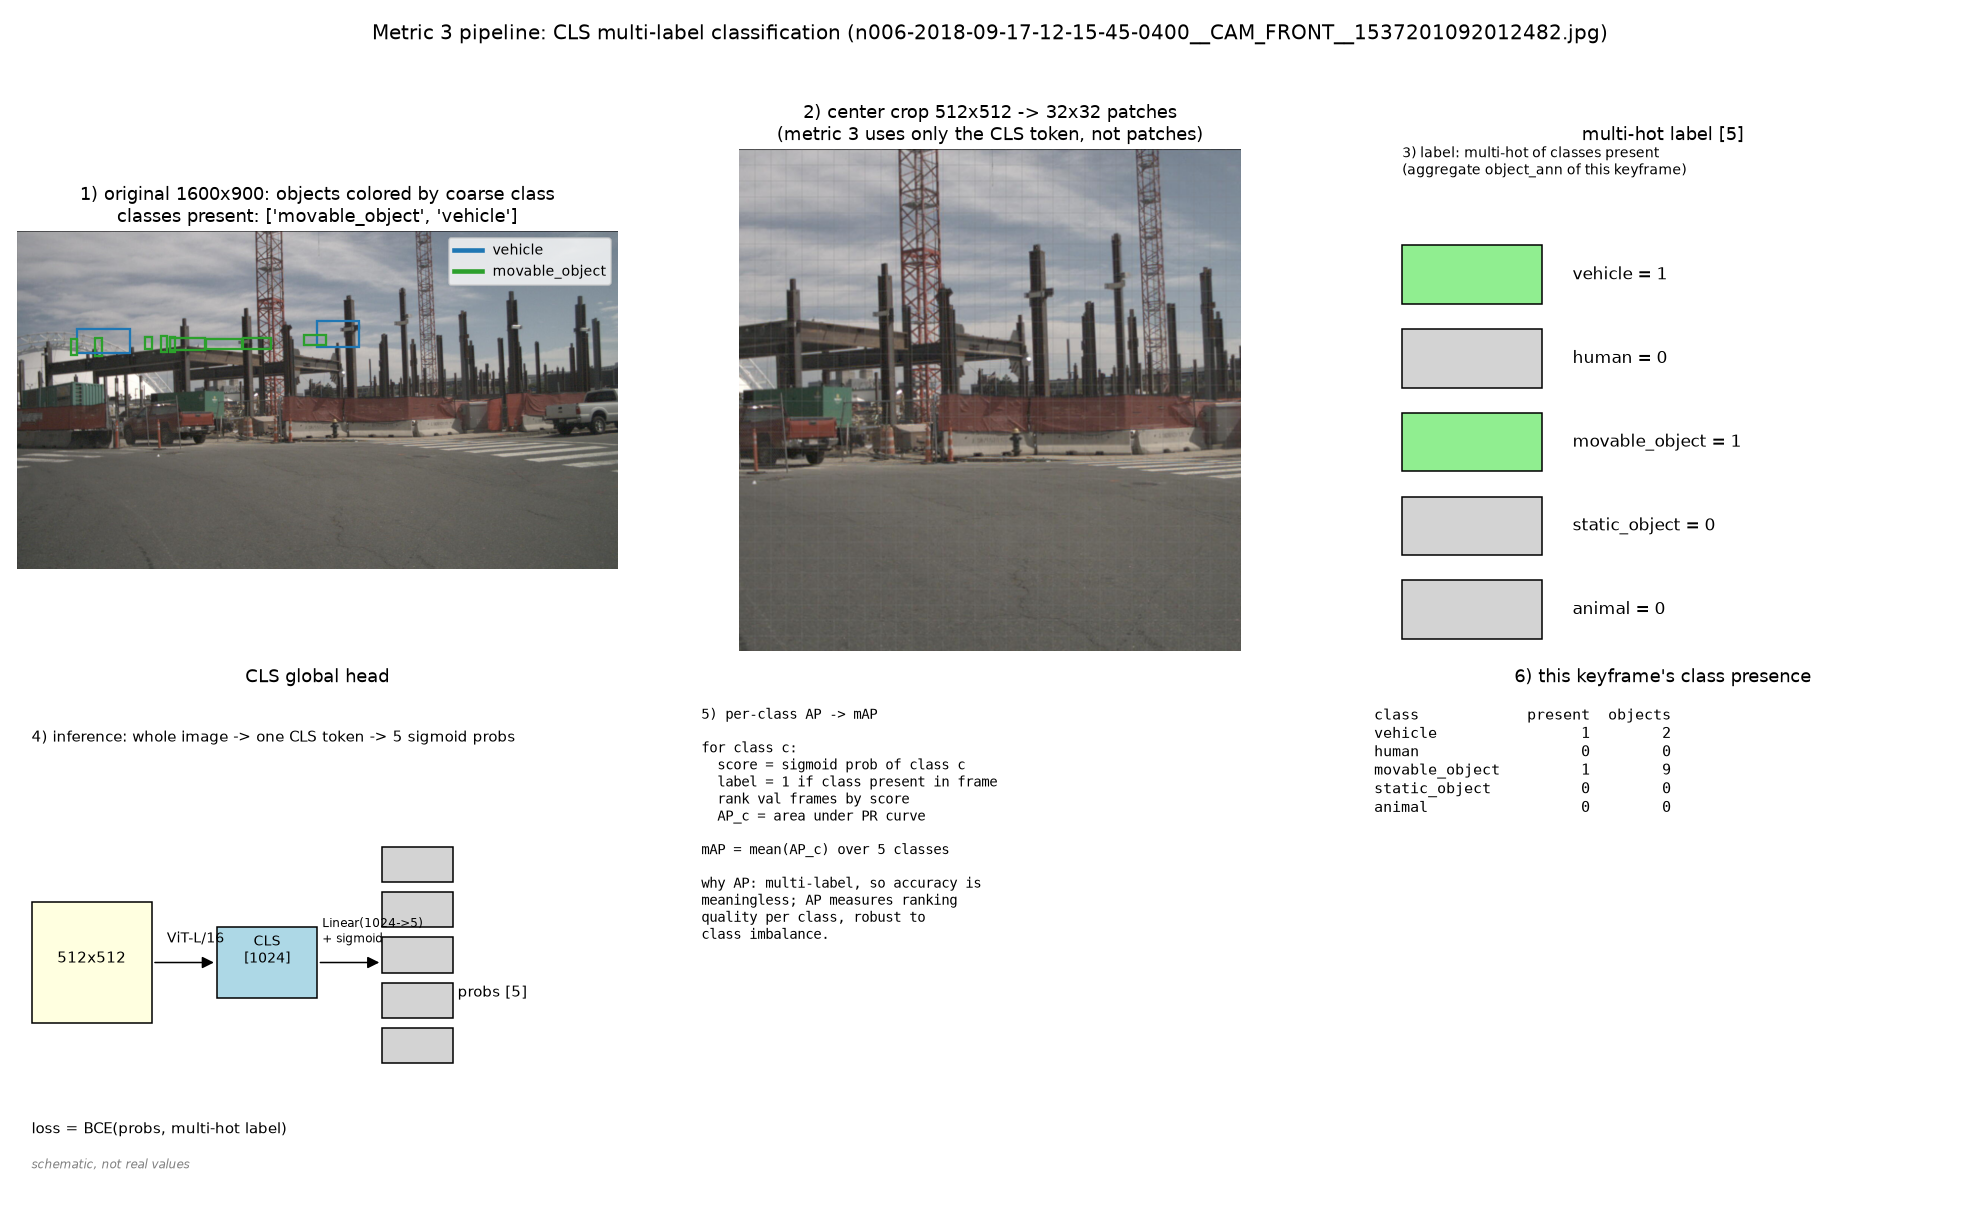
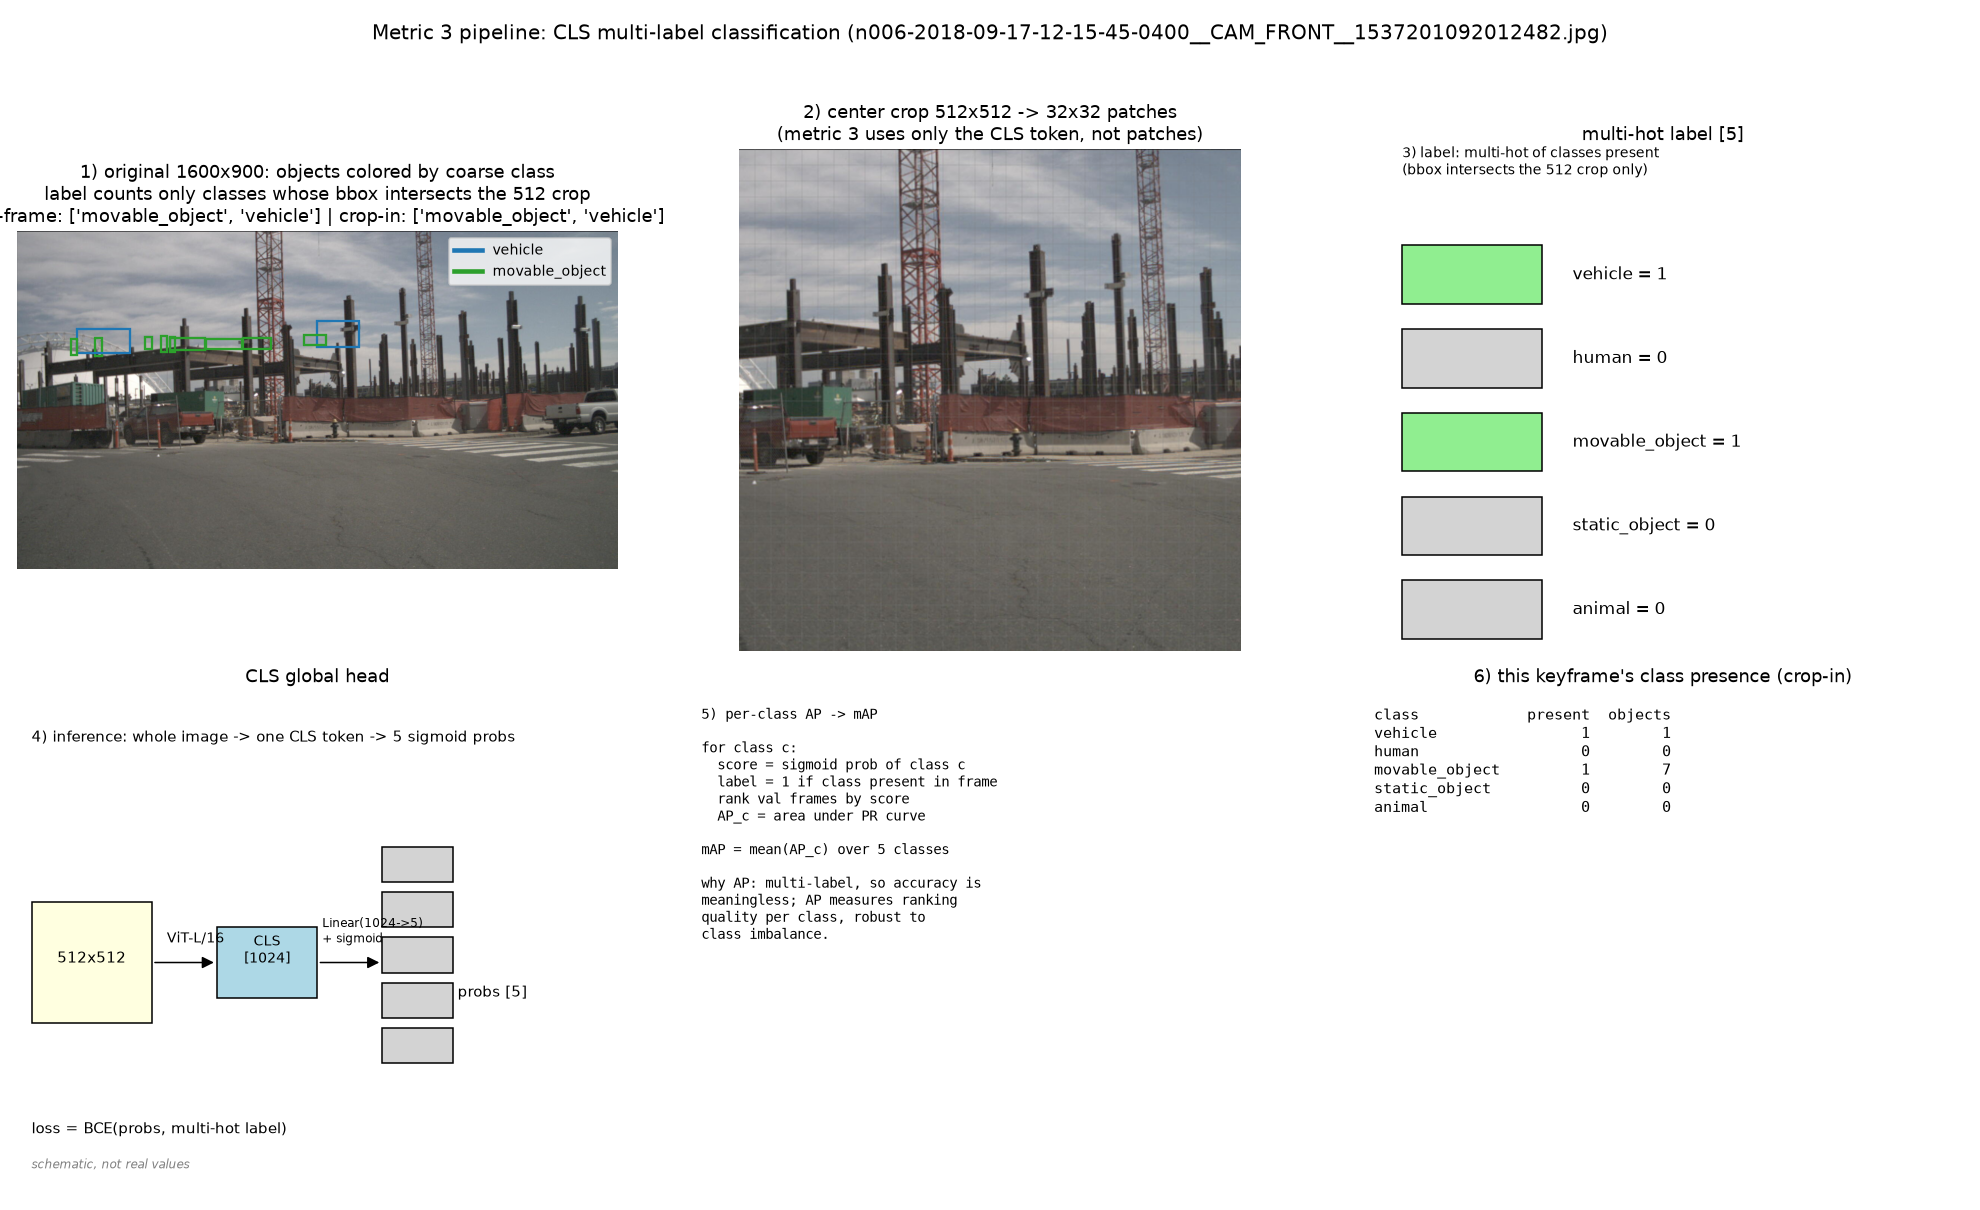
Fix CLS probe label aggregation to crop-intersection semantics

Changed region(s): [[0.0, 0.1223, 0.3389, 0.1835], [0.7394, 0.5504, 0.9242, 0.581], [0.7086, 0.1223, 0.8318, 0.1529]]

diff --git a/notes/vis_cls_probe.py b/notes/vis_cls_probe.py
@@ -38,9 +38,6 @@ ch_by_cs = {c["token"]: sensors[c["sensor_token"]] for c in calibrated}
 
 sd = next(s for s in sample_data if s["filename"].endswith(IMG_NAME))
 objs = [a for a in object_ann if a["sample_data_token"] == sd["token"]]
-coarse_of = {a["token"]: category.get(a["category_token"], "?").split(".")[0] for a in objs}
-present = sorted({c for c in coarse_of.values()})
-multi_hot = [1.0 if c in present else 0.0 for c in COARSE_ORDER]
 
 
 def bbox_xyxy(a):
@@ -58,6 +55,20 @@ resized = np.asarray(Image.fromarray(img).resize((rw, rh), Image.BICUBIC))
 left = (rw - 512) // 2
 top = (rh - 512) // 2
 cropped = resized[top : top + 512, left : left + 512]
+
+
+def intersects_crop(a):
+    """True if the object bbox (after the same transform) intersects the 512x512 crop."""
+    x1, y1, x2, y2 = bbox_xyxy(a)
+    x1, y1 = x1 * scale - left, y1 * scale - top
+    x2, y2 = x2 * scale - left, y2 * scale - top
+    return x2 > 0 and y2 > 0 and x1 < 512 and y1 < 512
+
+
+coarse_of = {a["token"]: category.get(a["category_token"], "?").split(".")[0] for a in objs}
+full_present = sorted({c for c in coarse_of.values()})
+present = sorted({coarse_of[a["token"]] for a in objs if intersects_crop(a)})
+multi_hot = [1.0 if c in present else 0.0 for c in COARSE_ORDER]
 
 cmap = plt.get_cmap("tab10")
 class_color = {c: cmap(i % 10) for i, c in enumerate(COARSE_ORDER)}
@@ -78,7 +89,9 @@ for c in COARSE_ORDER:
     if c in present:
         handles.append(plt.Line2D([0], [0], color=class_color[c], lw=3, label=c))
 ax.legend(handles=handles, loc="upper right", fontsize=9)
-ax.set_title(f"1) original {W}x{H}: objects colored by coarse class\nclasses present: {present}")
+ax.set_title(f"1) original {W}x{H}: objects colored by coarse class\n"
+             f"label counts only classes whose bbox intersects the 512 crop\n"
+             f"full-frame: {full_present} | crop-in: {present}")
 ax.axis("off")
 
 # 2. crop + 32x32 grid + CLS concept
@@ -101,7 +114,7 @@ for k, c in enumerate(COARSE_ORDER):
     ax.add_patch(Rectangle((0.4, y - 0.35), 1.4, 0.7, fc="lightgreen" if val else "lightgray", ec="k"))
     ax.text(2.1, y, f"{c} = {int(val)}", fontsize=11, va="center")
 ax.text(0.4, len(COARSE_ORDER) + 0.2,
-        "3) label: multi-hot of classes present\n(aggregate object_ann of this keyframe)",
+        "3) label: multi-hot of classes present\n(bbox intersects the 512 crop only)",
         fontsize=9)
 ax.set_title("multi-hot label [5]")
 
@@ -150,17 +163,18 @@ ax.text(0.02, 0.97, "\n".join(lines), va="top", fontfamily="monospace", fontsize
 # 6. per-class presence stats for this frame
 ax = fig.add_subplot(gs[1, 2])
 from collections import Counter
-counts = Counter(coarse_of.values())
+counts = Counter(coarse_of[a["token"]] for a in objs if intersects_crop(a))
 lines = [f"{'class':<16} {'present':>7} {'objects':>8}"]
 for c in COARSE_ORDER:
     lines.append(f"{c:<16} {int(c in present):>7} {counts.get(c, 0):>8}")
 ax.text(0.02, 0.97, "\n".join(lines), va="top", fontfamily="monospace", fontsize=10)
-ax.set_title("6) this keyframe's class presence")
+ax.set_title("6) this keyframe's class presence (crop-in)")
 ax.axis("off")
 
 fig.suptitle(f"Metric 3 pipeline: CLS multi-label classification ({IMG_NAME})", fontsize=13)
 fig.tight_layout(rect=[0, 0, 1, 0.96])
 fig.savefig(OUT, dpi=110)
 print("saved", OUT)
-print("classes present:", present)
+print("classes present (full-frame):", full_present)
+print("classes present (crop-in):", present)
 print("multi-hot:", dict(zip(COARSE_ORDER, multi_hot)))

diff --git a/notes/PROBE_PLAN.md b/notes/PROBE_PLAN.md
@@ -41,7 +41,8 @@
   判断续训是否过拟合必须同时看全局特征，故增加本指标
 - 冻结 backbone，512×512，取 **CLS token**（1024 维）
 - 线性头 `Linear(1024→8) + sigmoid`，**BCE 多标签**
-- 标签：该关键帧内出现的 object 类别集合（object_ann 的 category 聚合 → 8 维多标签向量）
+- 标签：该关键帧内、**bbox 与 512×512 crop 有交集**的 object 类别集合
+  （object_ann 的 category 聚合 → 5 维多标签向量；裁剪内口径，与指标 2 丢弃规则一致）
 - 训练集：v1.0-train 关键帧（channel==CAM_FRONT 且 is_key_frame，带 object_ann）；评测：v1.0-val
 - 指标：**mAP**（per-class AP 平均）+ 可选 top-1（最高概率类是否在标签集合中）
 - 与指标 1/2 的关系：patch 测 dense、CLS 测 global；三者任一在中间曲线上"先升后降"才是过拟合信号
@@ -132,9 +133,12 @@ head: Linear（主指标）/ MLP-256（辅助，可选）
 
 ### 2.3 指标 3（CLS mAP）补细节
 
-- 确认多热标签 = 该关键帧（channel==CAM_FRONT 且 is_key_frame）内 object_ann 全部类别聚合；
+- **标签聚合口径（写死）**：多热标签 = 该关键帧（channel==CAM_FRONT 且 is_key_frame）内、
+  **bbox 与 512×512 crop 有交集**的 object_ann 类别聚合（bbox 先经同一几何变换 + clip，
+  再做交集判定；crop 外物体不计入标签，与指标 2 的丢弃规则一致，避免"模型看不到却要预测"的不对称）；
 - 输出 **per-class AP 表**，不只看均值；
-- 验收：与已测 v1 值 0.678 / 0.574 一致，即认为实现正确，无需大改。
+- 验收：与已测 v1 值同量级（0.678 / 0.574 为全帧口径测得；裁剪内口径下 5 coarse 差异小、
+  数值可能略变，以重测值为准）。
 
 ### 2.4 修复后重测与决策闸门
 
